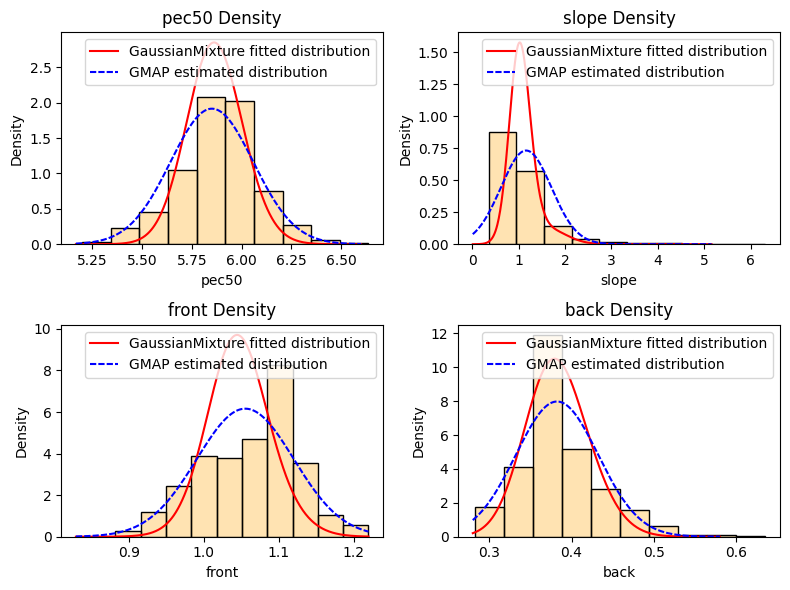
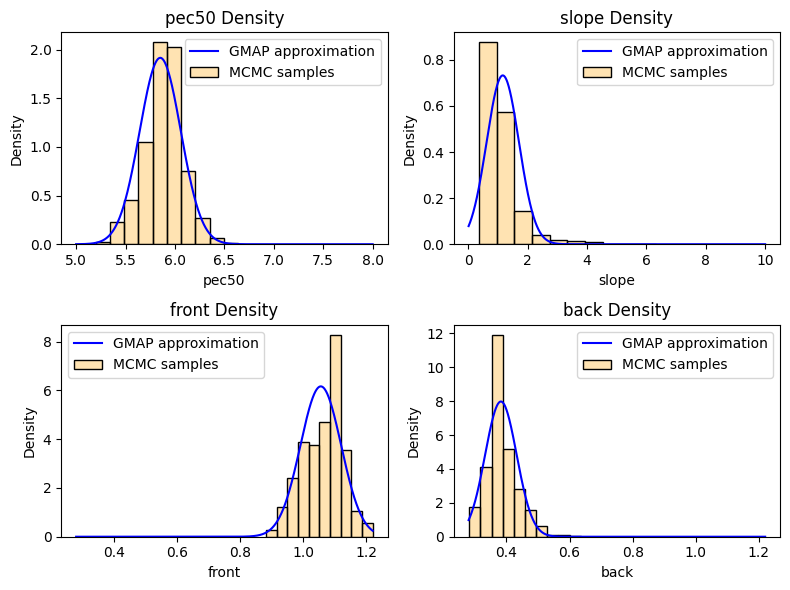
fix plot

diff --git a/src/bayescurvefit/analysis.py b/src/bayescurvefit/analysis.py
@@ -182,21 +182,8 @@ class BayesAnalysis:
             else:
                 ax = axes
             x_data = np.linspace(*self.bounds[i], 1000)
-            # For multivariate GMM, we need to create a 2D array with all parameters
-            # and then extract the marginal distribution for parameter i
-            if self.data.mcmc_results.multivariate_gmm is not None:
-                # Create a grid for all parameters, using optimal values for others
-                param_grid = np.tile(self.data.OPTIMAL_PARAM_, (len(x_data), 1))
-                param_grid[:, i] = x_data
-                y_data = np.exp(
-                    self.data.mcmc_results.multivariate_gmm.score_samples(param_grid)
-                )
-            else:
-                # Fallback: use normal distribution approximation
-                y_data = norm(
-                    loc=self.data.OPTIMAL_PARAM_[i],
-                    scale=self.data.OPTIMAL_PARAM_STD_[i],
-                ).pdf(x_data)
+
+            # Plot MCMC samples histogram
             sns.histplot(
                 samples[:, i],
                 bins=bins,
@@ -204,28 +191,20 @@ class BayesAnalysis:
                 alpha=0.3,
                 stat="density",
                 color=hist_color,
+                label="MCMC samples",
             )
-            valid_indices = y_data > 1e-3
-            y_data = y_data[valid_indices]
-            x_data = x_data[valid_indices]
-            y_data /= np.sum(y_data * (x_data[1] - x_data[0]))
+
+            # Plot GMAP approximation (the final posterior approximation)
+            y_data = norm(
+                loc=self.data.OPTIMAL_PARAM_[i],
+                scale=self.data.OPTIMAL_PARAM_STD_[i],
+            ).pdf(x_data)
             sns.lineplot(
                 x=x_data,
                 y=y_data,
-                label="GaussianMixture fitted distribution",
-                ax=ax,
-                color="red",
-            )
-            sns.lineplot(
-                x=x_data,
-                y=norm(
-                    loc=self.data.OPTIMAL_PARAM_[i],
-                    scale=self.data.OPTIMAL_PARAM_STD_[i],
-                ).pdf(x_data),
-                label="GMAP estimated distribution",
+                label="GMAP approximation",
                 ax=ax,
                 color="blue",
-                dashes=[3, 1],
             )
             ax.set_title(f"{self.param_names[i]} Density")
             ax.set_xlabel(f"{self.param_names[i]}")

diff --git a/src/bayescurvefit/__init__.py b/src/bayescurvefit/__init__.py
@@ -1,1 +1,1 @@
-__version__ = "0.6.3"
+__version__ = "0.6.5"
